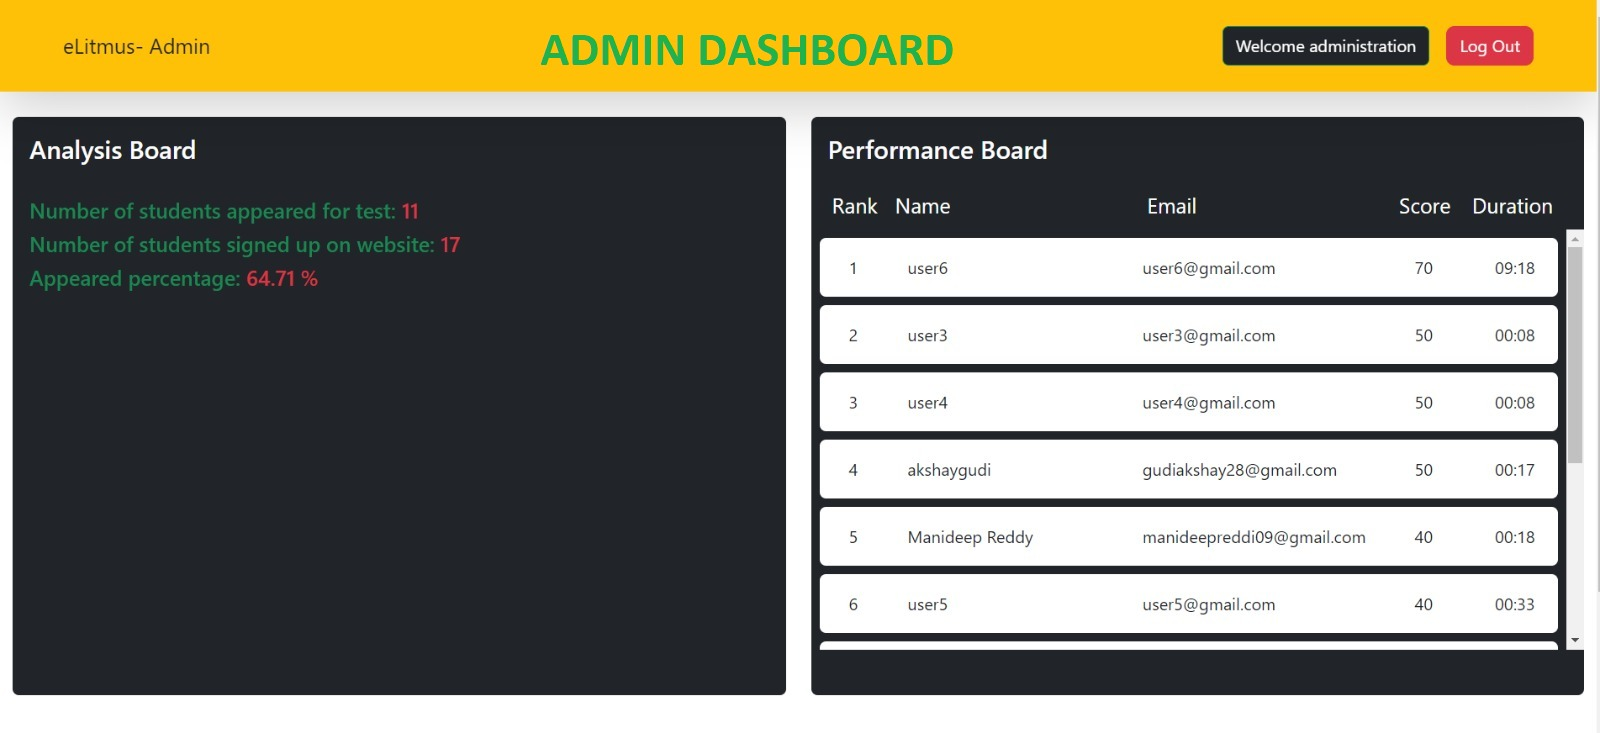
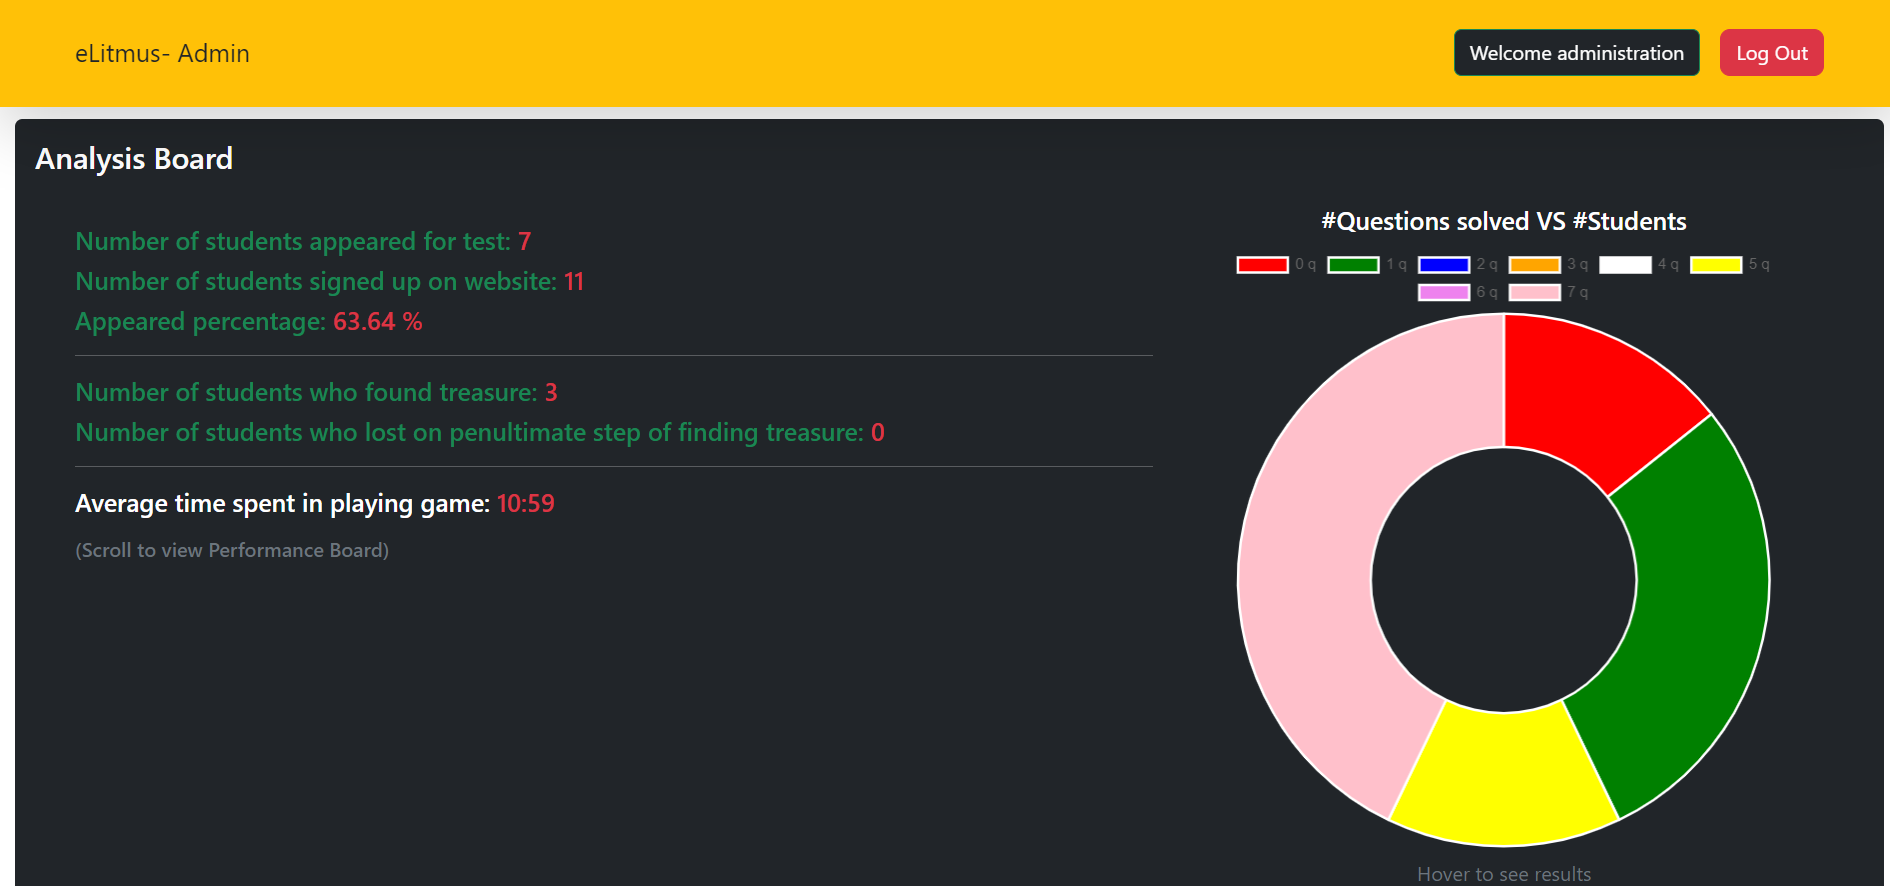
Added Chart

diff --git a/client/src/admincomponents/Analysisboard.js b/client/src/admincomponents/Analysisboard.js
@@ -1,5 +1,7 @@
 import React, { useEffect, useState } from 'react'
 import { backendlink } from '../helper'
+import Dchart from './Dchart'
+import LoadingSpinner from '../components/LoadingSpinner'
 
 export default function Analysisboard() {
 
@@ -9,13 +11,29 @@ export default function Analysisboard() {
         signupdata()
 
     }, [])
-    
+
+    const [spin, setspin] = useState(false)
     const [atmptsize, setatmptsize] = useState(0)
     const [regsize, setregsize] = useState(0)
-
+    const [resarray, setresarray] = useState([])
+    const [minutes, setminutes] = useState(0)
+    const [seconds, setseconds] = useState(0)
+    // const [atmptdata, setatmptdata] = useState({
+    //     0: 0,
+    //     1: 0, 
+    //     2: 0,
+    //     3: 0,
+    //     4: 0,
+    //     5: 0,
+    //     6: 0,
+    //     7: 0
+    // })
+    
     const takentestdata = async () => {
 
-        const req = await fetch( backendlink + "/api/getdata", {
+        setspin(true)
+
+        const req = await fetch(backendlink + "/api/getdata", {
             method: 'GET',
             headers: {
                 'Content-Type': 'application/json'
@@ -28,22 +46,36 @@ export default function Analysisboard() {
 
         if (res.success) {
 
-            // console.log(userdata)
+            const arr = [0,0,0,0,0,0,0,0]
+            let millisecs = 0
+
+            for (let key of res.testdata)
+            {
+                millisecs += key.duration
+                let curno = key.score/10
+                arr[curno] += 1
+            }
+            setminutes(Math.floor(millisecs/60000))
+            setseconds(Math.floor(millisecs/1000) - Math.floor(millisecs/60000)*60)
+            setresarray(arr)
             setatmptsize(res.testdata.length)
+            setspin(false)
 
         }
-        else
-        {
-            console.log("Error in taken test data")
+        else {
+            alert("Error in taken test data")
+            setspin(false)
         }
 
     }
 
-    
+
 
     const signupdata = async () => {
 
-        const req = await fetch( backendlink+"/api/getregdata", {
+        setspin(true)
+
+        const req = await fetch(backendlink + "/api/getregdata", {
             method: 'GET',
             headers: {
                 'Content-Type': 'application/json'
@@ -57,23 +89,49 @@ export default function Analysisboard() {
 
             // userdata = res.testdata
             setregsize(res.size)
+            setspin(false)
+        }
+        else {
+            alert('Error in fetching data. Please try again')
+            setspin(false)
         }
 
 
     }
 
     return (
-        <div className='bg-dark rounded' style={{ height: "550px" }}>
+        <div className='bg-dark rounded pb-5' style={{height:"650px"}}>
 
             <div>
                 <h4 className='text-white p-3'>Analysis Board</h4>
             </div>
 
-            <div className='m-3'>
-                <h5 className='text-success'>Number of students appeared for test: {(atmptsize < regsize) ? <span className='text-danger'>{atmptsize}</span> : <span className='text-success'>{atmptsize}</span>   }</h5>
-                <h5 className='text-success'>Number of students signed up on website: <span className='text-danger'>{regsize}</span> </h5>
-                <h5 className='text-success'>Appeared percentage: <span className='text-danger'>{((atmptsize/regsize) * 100).toFixed(2) } %</span> </h5>
-            </div>
+            {(spin === false) ?
+
+                <div className='row'>
+
+                    <div className='m-3 ms-3 col-7'>
+                        <h5 className='text-success'>Number of students appeared for test: {(atmptsize < regsize) ? <span className='text-danger'>{atmptsize}</span> : <span className='text-success'>{atmptsize}</span>}</h5>
+                        <h5 className='text-success'>Number of students signed up on website: <span className='text-danger'>{regsize}</span> </h5>
+                        <h5 className='text-success'>Appeared percentage: <span className='text-danger'>{((atmptsize / regsize) * 100).toFixed(2)} %</span> </h5>
+                        <hr className='text-white' />
+                        <h5 className='text-success'>Number of students who found treasure: <span className='text-danger'>{resarray[7]} </span> </h5>
+                        <h5 className='text-success'>Number of students who lost on penultimate step of finding treasure: <span className='text-danger'>{resarray[6]} </span> </h5>
+                        <hr className='text-white' />
+                        <h5 className='text-white'>Average time spent in playing game: <span className='text-danger'> {(minutes<10)? ('0'+minutes) : (minutes)}:{(seconds<10)? ('0'+seconds): (seconds)}</span></h5>
+                        <h6 className='text-muted mt-3'>Scroll to view Performance Board</h6>
+
+                    </div>
+
+                    <div className='col-4 text-center'>
+                        <Dchart resarray = {resarray} />
+                    </div>
+
+                </div> :
+
+                <LoadingSpinner />
+
+            }
 
         </div>
     )

diff --git a/client/src/admincomponents/Dchart.js b/client/src/admincomponents/Dchart.js
@@ -1,0 +1,40 @@
+import React from 'react'
+import { Chart as ChartJS, ArcElement, Tooltip, Legend } from 'chart.js';
+import { Doughnut } from 'react-chartjs-2';
+ChartJS.register(ArcElement, Tooltip, Legend);
+
+
+
+export default function Dchart(props) {
+
+    const data = {
+        labels: ['0 q', '1 q', '2 q', '3 q', '4 q', '5 q', '6 q', '7 q'],
+        datasets: [
+            {
+                label: '# of Students',
+                data: props.resarray,
+                backgroundColor: [
+                    'red',
+                    'green',
+                    'blue',
+                    'orange',
+                    'white',
+                    'yellow',
+                    'violet',
+                    'pink'
+                ]
+            },
+        ],
+    };
+
+
+    return (
+        <div style={{ maxHeight: "400px" }}>
+            <h5 className='text-white'>#Questions solved VS #Students <span className='text-muted mt-2'>Hover to see results</span></h5>
+            <div> 
+            <Doughnut data={data}/>
+            
+            </div>
+        </div>
+    )
+}

diff --git a/client/src/screens/Home.js b/client/src/screens/Home.js
@@ -65,11 +65,11 @@ export default function Home() {
         {(role === 'admin') &&
           <div className='row'>
 
-            <div className="col-xl-6 col-lg-6 col-md-12 col-sm-12 rounded my-3">
+            <div className="col-xl-12 col-lg-12 col-md-12 col-sm-12 rounded my-3">
               <Analysisboard />
             </div>
 
-            <div className="col-xl-6 col-lg-6 col-md-12 col-sm-12 rounded my-3 text-white">
+            <div className="col-xl-12 col-lg-12 col-md-12 col-sm-12 rounded my-3 text-white">
               <Performanceboard />
             </div>
           </div>

diff --git a/client/src/admincomponents/Performanceboard.js b/client/src/admincomponents/Performanceboard.js
@@ -28,10 +28,11 @@ export default function Performanceboard() {
 
         if (res.success) {
             
+            console.log("first time")
             // userdata = res.testdata
             setuserdata(res.testdata)
             // console.log(userdata)
-
+            
         }
 
     }
